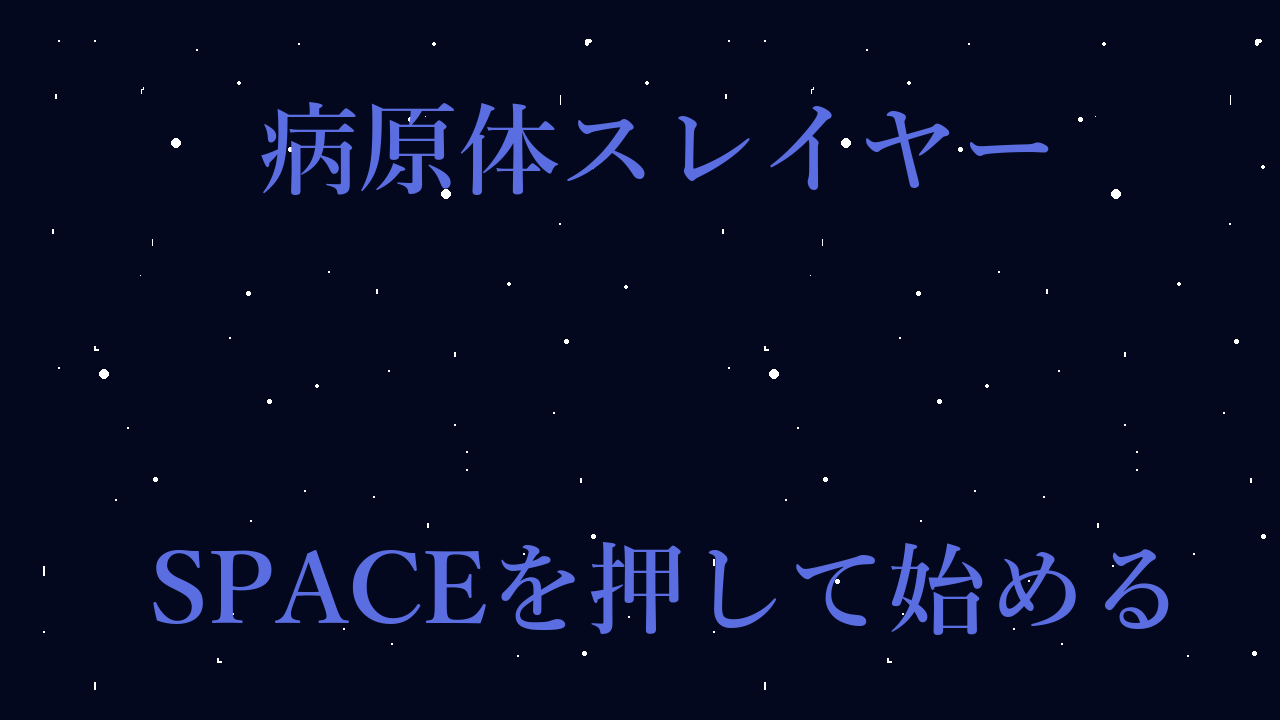
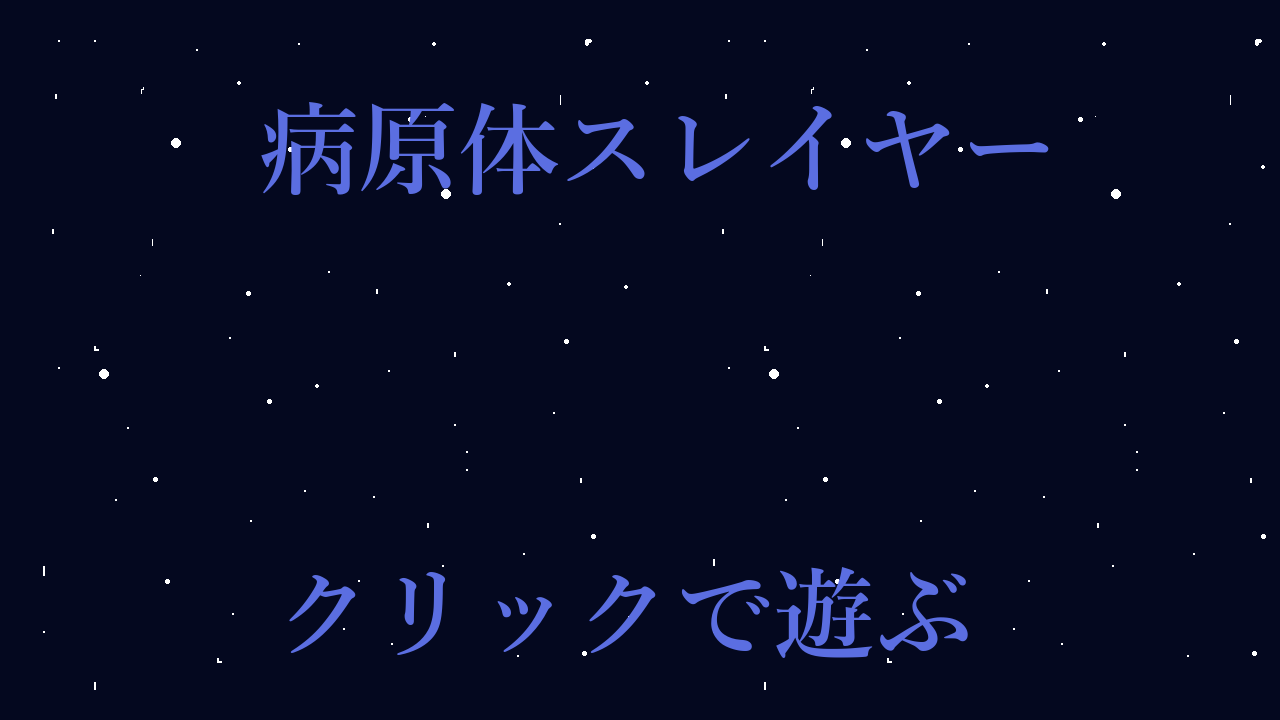
遊び方を追加

Changed region(s): [[0.125, 0.7333, 0.9375, 0.9167], [0.375, 0.8861, 0.4062, 0.9167]]

diff --git a/DirectXGame/TitleScene.cpp b/DirectXGame/TitleScene.cpp
@@ -14,11 +14,20 @@ void TitleScene::Initialize() {
 	// タイトルの生成
 	titleSprite_ = Sprite::Create(titleTexture_, {0, 0});
 
+	// タイトルのテクスチャ読み込み
+	tutorialTexture_ = TextureManager::Load("tutorial.png");
+	// タイトルの生成
+	tutorialSprite_ = Sprite::Create(tutorialTexture_, {0, 0});
+
 }
 
 void TitleScene::Update() {
-	if (input_->TriggerKey(DIK_SPACE)) {
+	if (input_->IsTriggerMouse(0) && isTutorial == true) {
 		isSceneEnd = true;
+	}
+
+	if (input_->IsTriggerMouse(0) && isTutorial == false) {
+		isTutorial = true;
 	}
 }
 
@@ -60,7 +69,11 @@ void TitleScene::Draw() {
 	/// ここに前景スプライトの描画処理を追加できる
 	/// </summary>
 
-	titleSprite_->Draw();
+	if (isTutorial == false) {
+		titleSprite_->Draw();
+	} else {
+		tutorialSprite_->Draw();
+	}
 
 	// スプライト描画後処理
 	Sprite::PostDraw();
@@ -71,4 +84,6 @@ void TitleScene::Draw() {
 void TitleScene::sceneReset() { 
 	//シーン移行のリセット
 	isSceneEnd = false;
+	// 遊び方のフラグのリセット
+	isTutorial = false;
 }

diff --git a/DirectXGame/TitleScene.h b/DirectXGame/TitleScene.h
@@ -50,6 +50,13 @@ private: // メンバ変数
 
 	// タイトル画面
 	uint_fast32_t titleTexture_ = 0;
-	//スプライト
+	// スプライト
 	Sprite* titleSprite_ = nullptr;
+
+	// 遊び方
+	uint_fast32_t tutorialTexture_ = 0;
+	// スプライト
+	Sprite* tutorialSprite_ = nullptr;
+	// 遊び方のフラク
+	bool isTutorial = false;
 };

diff --git a/DirectXGame/GameOverScene.cpp b/DirectXGame/GameOverScene.cpp
@@ -15,7 +15,7 @@ void GameOverScene::Initialize() {
 	}
 
 void GameOverScene::Update() {
-	if (input_->TriggerKey(DIK_SPACE)) {
+	if (input_->IsTriggerMouse(0)) {
 		isSceneEnd = true;
 	}
     }

diff --git a/DirectXGame/GameClearScene.cpp b/DirectXGame/GameClearScene.cpp
@@ -15,7 +15,7 @@ void GameClearScene::Initialize() {
 }
 
 void GameClearScene::Update() {
-	if (input_->TriggerKey(DIK_SPACE)) {
+	if (input_->IsTriggerMouse(0)) {
 		isSceneEnd = true;
 	}
 }
